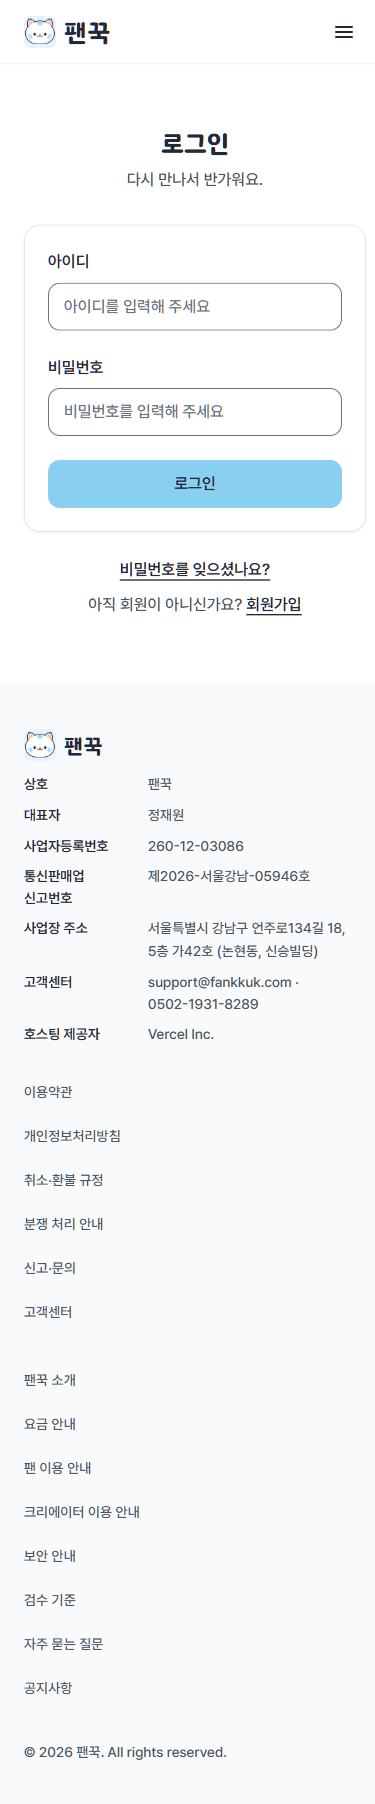
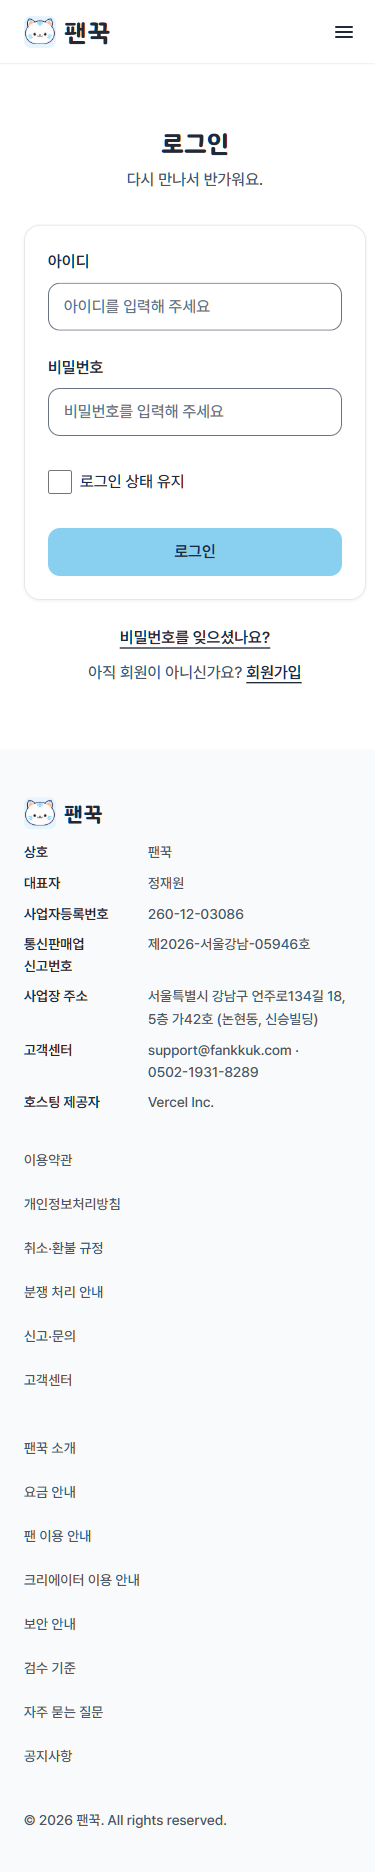
docs(fankkuk): 로그인 상태 유지를 실제로 — session-login INV-L15·S13~S13d(끄면 만료 시각 없는 쿠키, 갱신 때도), 로그인 시안에 확인칸 되살림, 명세·진단 고침 — 사용자 지시 10-25, 기본값은 카드 d129 덧붙임

diff --git a/projects/fankkuk/docs/design/mockups/site/part6-2026-10-25/login.html b/projects/fankkuk/docs/design/mockups/site/part6-2026-10-25/login.html
@@ -4,7 +4,7 @@
  6파트 정돈 시안 2026-10-25 — /login. 진단: docs/design/redesign-2026-10-25-part6.md 1절, 5절 다섯 가지 모두 추천 ①.
  상태: docs/ux/pages/login.md 상태표의 idle · submitting · error(빈 칸 / 틀림) · locked. 재설정 입구는 「로그인」 버튼 아래 링크(새 화면 password-forgot.html).
  근거: design-rules 00000(로그인 480)·18절(판 위 96, 390 은 64)·00절(그림 자리 밖의 선물 그림 뺌)·0000(필요할 때 필요한 것만), tokens 굵기 800·600·500·400.
- 바뀐 곳(빨간 번호): 1 머리를 카드 밖 위로 · 선물 그림 뺌 · 설명 16/500 -> 16/400 · 2 「로그인 상태 유지」 확인칸 뺌(동작이 없던 입력) ·
+ 바뀐 곳(빨간 번호): 1 머리를 카드 밖 위로 · 선물 그림 뺌 · 설명 16/500 -> 16/400 · 2 「로그인 상태 유지」 확인칸은 남기고 실제로 동작하게(끄면 브라우저를 닫을 때 로그인이 풀림, 기본 꺼짐 — 10-25 사용자 지시) ·
    3 접는 재설정 칸 -> 카드 아래 가운데 링크 한 줄 「비밀번호를 잊으셨나요?」(누를 칸 44, 모든 상태에서 보임 — 잠김 안내 바로 아래가 입구).
  문구는 지금 코드(login-page.tsx) 그대로. 새 문구 없음. 칸 안 안내 글(placeholder)도 지금 그대로.
  회색 막대(.mockbar)·빨간 번호(.mk)는 시안 전용. 비즈니스 로직 없음.
@@ -22,6 +22,7 @@
  <form class="form" onsubmit="return false" novalidate>
   <div><label class="label" for="lid">아이디</label><input class="field" id="lid" type="text" autocomplete="username" placeholder="아이디를 입력해 주세요"></div>
   <div><label class="label" for="lpw">비밀번호</label><input class="field" id="lpw" type="password" autocomplete="current-password" placeholder="비밀번호를 입력해 주세요"></div>
+  <div class="check mkp"><i class="mk tr" aria-hidden="true">2</i><input type="checkbox" id="lkeep"><label for="lkeep">로그인 상태 유지</label></div>
   <p class="err" role="alert" data-only="empty">아이디와 비밀번호를 입력해 주세요.</p>
   <p class="err" role="alert" data-only="wrong">아이디 또는 비밀번호가 맞지 않아요.</p>
   <p class="err" role="alert" data-only="locked">비밀번호를 여러 번 틀려 잠시 확인할 수 없어요.<span class="brk">15분 뒤 다시 하거나 비밀번호를 재설정해 주세요.</span></p>

diff --git a/projects/fankkuk/docs/design/mockups/site/part6-2026-10-25/index.html b/projects/fankkuk/docs/design/mockups/site/part6-2026-10-25/index.html
@@ -29,7 +29,7 @@ body.w390 .cmp{grid-template-columns:repeat(2,minmax(0,390px));justify-content:c
 <script>
 // [슬러그, 이름, 주소, 바뀐 점, 시안 파일, [[상태 이름, 시안 상태 식별자, 시안 캡처 이름, 지금 캡처 이름 또는 null]]]
 const pages = [
-  ['login','로그인','/login',['머리를 카드 밖 위로, 선물 그림 뺌, 설명 16/500 → 16/400','「로그인 상태 유지」 확인칸 뺌(동작이 없던 입력)','접는 「비밀번호를 잊으셨나요?」 칸 → 카드 아래 가운데 링크 한 줄(따로 열리는 화면으로)'],'login',[
+  ['login','로그인','/login',['머리를 카드 밖 위로, 선물 그림 뺌, 설명 16/500 → 16/400','「로그인 상태 유지」 확인칸은 남기고 실제로 동작하게(끄면 브라우저를 닫을 때 로그인이 풀림, 기본 꺼짐)','접는 「비밀번호를 잊으셨나요?」 칸 → 카드 아래 가운데 링크 한 줄(따로 열리는 화면으로)'],'login',[
     ['처음','idle','login','login'],['보내는 중','busy','login-busy',null],['오류 · 빈 칸','empty','login-empty','login-empty'],['오류 · 틀림','wrong','login-wrong',null],['잠김','locked','login-locked','login-locked-dom']]],
   ['password-forgot','비밀번호 찾기','/password/forgot (새 화면, 가칭)',['로그인 접는 칸 안의 재설정 요청을 따로 열리는 화면으로 — 한 카드에 아이디 칸이 두 번 나오던 것이 없어짐','「재설정 링크 보내기」가 이 화면의 채운 버튼 하나','제목 「비밀번호 찾기」·링크 「로그인으로 돌아가기」는 문구 후보'],'password-forgot',[
     ['요청 처음','request','forgot','login-reset-open'],['보내는 중','sending','forgot-sending',null],['오류 · 빈 칸','error','forgot-empty','login-reset-empty'],['메일 보냄','answered','forgot-sent','login-reset-sent-dom']]],

diff --git a/projects/fankkuk/docs/specs/session-login.md b/projects/fankkuk/docs/specs/session-login.md
@@ -19,6 +19,8 @@ status: approved
 #              사용자 「팔로우 중인 사람한테만 보낼 수 있게 할거고」 → 결정 카드 fankkuk-20261001-1-d41 「추천대로」
 #              (크리에이터끼리도 팬과 같게, 이미 들어온 주문은 그대로). S3f·S3g 고침, S3h 추가.
 #   2026-10-08 INV-L14 추가 — 아이디마다 10분에 5번 틀리면 15분 막기, S12~S12d, 표면에 concurrency. 비범위의 「Auth 기본 제한에 맡긴다」 삭제. 카드 d49 ⑦ 「추천대로」.
+#   2026-10-25 INV-L15·S13~S13d 추가 — 「로그인 상태 유지」를 실제로 동작하게. 사용자 지시 「로그인 상태 유지 기능도 구현해줘」(10-25).
+#              기본값(체크 꺼짐)은 결정 카드 fankkuk-20261001-1-d129 덧붙임. 비범위의 「로그인 상태 유지 — 따로」 삭제.
 surfaces: [auth, authz, concurrency]
 # ↑ auth: 지금 요청을 보낸 사람이 누구인가. 이 판정이 틀리면 RLS·읽기 함수가 남의 선물을 보여 준다.
 #   authz: 그 사람이 이 선물을 보낼 수 있는가(역할·자기 자신·팔로우). 틀리면 아무 크리에이터나 다른 크리에이터에게 주문을 만든다.
@@ -114,6 +116,15 @@ surfaces: [auth, authz, concurrency]
   기록에는 아이디(소문자로 맞춘 값)·시각·결과만 있고 비밀번호·IP 는 없다. 기록 함수는 서버 전용 키로만 부른다.
   (강제 위치: DB — 시도 시작 함수가 아이디별 잠금 뒤 횟수 확인과 시도 줄 넣기를 한 처리로 / 서버 — 세 확인이 Auth 를 부르기 전에 시작 함수를 거침)
   위반 시: 계정 하나를 노린 비밀번호 짐작이 계정 단위로 막히지 않는다(Auth 의 제한은 IP 기준인데 요청이 모두 앱 서버 IP 에서 나간다).
+
+- INV-L15: 「로그인 상태 유지」를 끄고 로그인하면 로그인 쿠키는 만료 시각이 없는 쿠키(브라우저를 닫으면 지워지는 쿠키)로만 쓴다.
+  로그인할 때뿐 아니라 요청마다 토큰을 갱신하며 다시 쓸 때도 같다 — 그래서 끈 사람의 브라우저에는 만료 시각이 붙은 로그인 쿠키가 한 번도 남지 않는다.
+  켜고 로그인하면 지금처럼 만료 시각이 붙은 쿠키로 쓴다(라이브러리 기본 400일, 토큰 갱신이 계속 연장). 화면의 체크 기본값은 꺼짐이다.
+  어느 쪽으로 로그인했는지는 서버가 쓰는 표시 쿠키 하나로 기억한다 — 이 쿠키도 HttpOnly·SameSite=Lax·운영 Secure(INV-L1)이고,
+  끈 사람에게만 만료 시각 없이 있고 켠 사람에게는 없다. 다시 로그인하면 그때 고른 값으로 바뀌고, 로그아웃하면 지운다(INV-L7).
+  쿠키를 지우는 쓰기(만료 0)는 이 규칙과 상관없이 그대로 지운다. 이 표시는 쿠키를 어떻게 쓸지만 정하고 누가 로그인했는지 판정에는 쓰지 않는다(INV-L2).
+  (강제 위치: 서버 — 로그인 쿠키를 쓰는 함수 하나가 표시를 보고 만료 시각을 뗀다. 로그인 처리·요청마다 갱신·화면 읽기가 모두 이 함수로 쓴다)
+  위반 시: 공용 PC 에서 체크를 끄고 로그인한 사람이 창을 닫아도 다음 사람이 그 계정으로 들어간다. 토큰 갱신 때 한 번만 빠뜨려도 400일 쿠키가 생긴다.
 ## 시나리오
 
 - S1 (INV-L1): Given 로그인 성공 / When 응답 쿠키를 봄 / Then 토큰 쿠키에 HttpOnly·SameSite=Lax 가 붙어 있다.
@@ -140,6 +151,10 @@ surfaces: [auth, authz, concurrency]
 - S12b (INV-L14): Given 별빛이 로그인에서 3번, 비밀번호 바꾸기에서 2번 틀림 / Then 막힘. 4번 틀린 뒤 맞으면 → 그 뒤 다시 5번까지.
 - S12c (INV-L14): Given 없는 아이디 / When 5번 틀림 / Then 같은 안내로 막힘. Given 막힌 별빛 / When 재설정 완료 / Then 바로 로그인.
 - S12d (INV-L14, 동시): Given 4번 틀린 별빛 / When 동시에 3번 확인 / Then 그중 1번만 Auth 까지 가고 나머지는 거부.
+- S13 (INV-L15): Given 체크를 끄고 로그인 성공 / When 응답 쿠키를 봄 / Then 로그인 쿠키에 Max-Age·Expires 가 없고, 표시 쿠키가 HttpOnly 로 있다.
+- S13b (INV-L15, 실패경로): Given S13 의 쿠키(표시 있음) / When 요청마다 갱신이 토큰을 다시 씀 / Then 다시 쓴 로그인 쿠키에도 Max-Age·Expires 가 없다.
+- S13c (INV-L15): Given 체크를 켜고 로그인(전에 끄고 로그인한 표시가 남아 있어도) / When 응답 쿠키를 봄 / Then 로그인 쿠키에 Max-Age 가 있고 표시 쿠키는 지워진다.
+- S13d (INV-L15·INV-L7): Given 끄고 로그인 / When 로그아웃 / Then 로그인 쿠키와 표시 쿠키가 모두 지워진다(만료 0 쓰기는 만료 시각을 떼지 않는다).
 - S11 (INV-L13): `/help` → `/help` · `/gifts/FC-7K3M9` → 그대로 · `//evil.example` · `/\evil.example` · `https://evil.example` · `/a%0d%0a` 의 풀린 제어 문자 · 빈 값 → 메인.
 
 ## 신뢰 경계
@@ -149,5 +164,5 @@ surfaces: [auth, authz, concurrency]
 
 ## 비범위
 
-- 가입·카카오 본인 확인 — signup 스펙. 「로그인 상태 유지」 체크(지금은 항상 유지) — 따로. 비밀번호 재설정·바꾸기는 이 스펙 INV-L10~L12
+- 가입·카카오 본인 확인 — signup 스펙. 비밀번호 재설정·바꾸기는 이 스펙 INV-L10~L12
 - 확인된 이메일이 없는 계정의 재설정(휴대폰 본인 확인으로 재설정하는 길) — 카카오 연결 때. 그 전까지는 1:1 문의로 안내한다(INV-L10)

diff --git a/projects/fankkuk/docs/design/redesign-2026-10-25-part6.md b/projects/fankkuk/docs/design/redesign-2026-10-25-part6.md
@@ -138,7 +138,7 @@ status: draft
 | 항목 | 선택지와 비용 | 추천 | 이유 |
 |---|---|---|---|
 | 1. 비밀번호 재설정 요청 자리 | ① 따로 열리는 화면(예: `/password/forgot`) — 로그인 카드 아래 「비밀번호를 잊으셨나요?」 링크가 그리로 간다. 비용: 새 주소·명세 하나, 새 비밀번호 화면 실패 문구 둘(「로그인 화면에서 … 다시 받아 주세요」)을 고쳐야 해 문구 결정이 따라온다 ② 접는 칸은 두고 로그인 카드 밖 아래 별도 판으로 — 비용 작음, 한 화면에 양식 둘은 남는다 ③ 지금 그대로 | **①** | **업계 표준** — 흔한 사이트는 로그인 아래 「비밀번호 찾기」 링크가 따로 열리는 화면으로 간다. 한 카드에 같은 「아이디」 칸이 두 번 나오는 일이 없어지고, 링크가 죽었을 때 돌아갈 곳이 한 번에 열린다 |
-| 2. 「로그인 상태 유지」 | ① 뺀다 — 비용 작음 ② 실제로 동작하게(끄면 브라우저를 닫을 때 끝나는 쿠키) — 세션 스펙(session-login)에 한 줄을 더하고 보안 리뷰가 붙는다 ③ 그대로 | **①** | **판단**(업계에서는 흔히 두지만 동작할 때 이야기다). 지금은 끄고 로그인해도 세션이 남아 공용 PC 에서 오해를 부른다(BACKLOG 보안 리뷰). 기능이 필요하면 ②는 따로 스펙부터 |
+| 2. 「로그인 상태 유지」 (2026-10-25 사용자 지시로 ② — 실제로 동작하게, INV-L15) | ① 뺀다 — 비용 작음 ② 실제로 동작하게(끄면 브라우저를 닫을 때 끝나는 쿠키) — 세션 스펙(session-login)에 한 줄을 더하고 보안 리뷰가 붙는다 ③ 그대로 | **①** | **판단**(업계에서는 흔히 두지만 동작할 때 이야기다). 지금은 끄고 로그인해도 세션이 남아 공용 PC 에서 오해를 부른다(BACKLOG 보안 리뷰). 기능이 필요하면 ②는 따로 스펙부터 |
 | 3. 가입 2단계 크리에이터 칸 묶음 | ① 하늘 판 대신 구분선 + 소제목으로 묶음 넷(2절) — 비용: 묶음 이름 문구 넷이 새로 필요 ② 크리에이터만 단계 하나 더(채널 정보 단계) — 스펙의 「가입은 세 단계」를 바꿔야 하고 단계 줄이 역할마다 달라진다 ③ 판은 두고 면만 회색 보조 면으로 — 비용 가장 작음, 제목 없는 판과 긴 한 기둥은 남는다 | **①** | **업계 표준에 가까운 판단** — 긴 가입 양식은 소제목으로 묶는 것이 흔하다. 카드 안 카드(테두리·면 두 겹)가 없어지고, 하늘 면이 강조에만 남는다(21절) |
 | 4. 단계 표시 | ① 알약 줄만 남기고 카드 머리 번호 동그라미와 390 「1 / 3 단계」 줄을 뺀다, 390 알약 한 줄 ② 390 은 「1 / 3 단계 · 정보 입력」 글줄만, 알약 숨김 — 휴대폰에서 지난 단계로 바로 가는 칸이 없어진다(「이전」은 있음) ③ 그대로 | **①** | **판단** — 같은 번호가 세 번 나오던 것을 한 번으로. 폭마다 같은 부품이 남아 누르는 방법이 바뀌지 않는다 |
 | 5. 인증 화면 머리 | ① 세 화면 모두 머리를 카드 밖 위로, 로그인 선물 그림은 뺀다 ② 로그인·새 비밀번호는 카드 안 그대로, 그림만 뺀다 | **①** | **판단** — 가입은 머리와 카드 사이에 단계 줄이 있어 카드 안으로 넣을 수 없다. 셋을 맞추려면 밖이다. 그림 빼기는 두 안 공통(00절 그림 자리 규칙) |

diff --git a/projects/fankkuk/docs/ux/pages/login.md b/projects/fankkuk/docs/ux/pages/login.md
@@ -56,13 +56,13 @@ status: draft
 ## 스펙 참조
 
 - `docs/specs/session-login.md` — INV-L1(토큰은 HttpOnly 쿠키만) · INV-L5(실패 응답 하나) · INV-L10(재설정 요청 — 아이디+이메일, 늘 같은 응답) · INV-L13(돌아갈 주소) · INV-L14(아이디별 10분 5회 → 15분 막힘).
-- 「로그인 상태 유지」 — 스펙 없음(session-login 비범위 줄: 「「로그인 상태 유지」 체크(지금은 항상 유지) — 따로」).
+- 「로그인 상태 유지」 — session-login INV-L15(2026-10-25 추가).
 
 ## 바꿀 것 (진단 문서 5절 추천안 기준 — 승인 전)
 
 상태·노출·입력 구조가 바뀌는 것만 적었다. 굵기(16/500 → 400)·그림 빼기·머리를 카드 밖으로(5번) 같은 시각 변경은 진단 문서 1절에 있다.
 
-1. **「로그인 상태 유지」 확인칸을 뺀다**(5절 2번 ①). 모든 상태에서 사라진다. 세션은 지금처럼 늘 유지된다. 기능이 필요해지면 session-login 스펙에 먼저 적는다.
+1. **「로그인 상태 유지」 확인칸은 남기고 실제로 동작하게 한다**(2026-10-25 사용자 지시 — 5절 2번 ②). 기본값 꺼짐(카드 d129 덧붙임). 끄고 로그인하면 브라우저를 닫을 때 로그인이 풀린다 — session-login INV-L15.
 2. **재설정 요청을 이 화면에서 뺀다**(5절 1번 ①). 상태 `reset_open`·`reset_sending`·`reset_error`·`reset_answered` 가 이 화면에서 없어지고 새 화면(가칭 `/password/forgot`, 명세 `password-reset.md` 「바꿀 것」)으로 옮긴다. 이 화면에는 「로그인」 버튼 아래 가운데 링크 한 줄 「비밀번호를 잊으셨나요?」(누를 칸 44)만 남는다 — 모든 상태에서 보이므로 `locked` 안내가 시키는 재설정의 입구가 안내 바로 아래에 온다.
    - 5절 1번에서 ②를 고르면: 접는 칸이 로그인 카드 밖, 카드 아래 별도 판으로 옮기고 상태는 그대로다.
 3. 바꾼 뒤 요소 목록: 머리(카드 밖) · 아이디 · 비밀번호 · 오류 상자(`error`·`locked`) · 「로그인」 · 「비밀번호를 잊으셨나요?」 링크 · 아래 줄. 상태는 `signed_in_redirect`·`idle`·`submitting`·`error`·`locked` 다섯.
